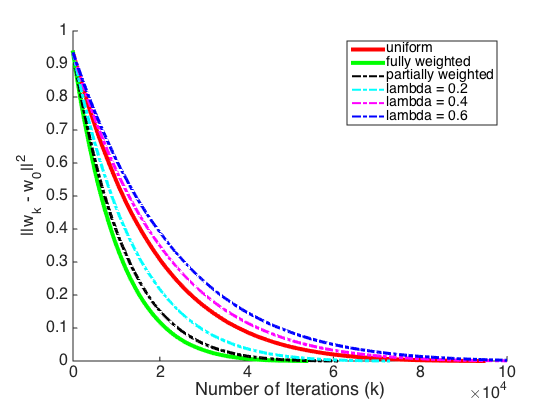
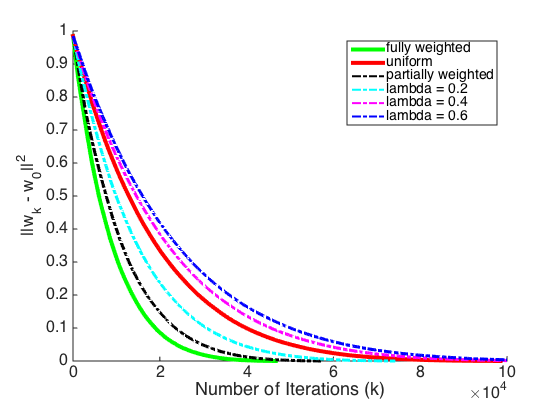
add more results for ppt

Changed region(s): [[0.1214, 0.0619, 0.9107, 0.8667], [0.6071, 0.0929, 0.85, 0.1857]]

diff --git a/comp_sgd_variants.m b/comp_sgd_variants.m
@@ -87,7 +87,7 @@ set(gca, 'fontsize', 16);
 figure; hold on;
 plot_convergence(w_fully_weighted, w_star, 'g', true);
 plot_convergence(w_uniform, w_star, 'r', true);
-legendconv = {'uniform','fully weighted','partially weighted'};
+legendconv = {'fully weighted','uniform','partially weighted'};
 for i = 1:numel(lambdas)
     curr_w_partially_weighted = w_partially_weighted{i};
     plot_convergence(curr_w_partially_weighted, w_star, ['-.', colors(i)]);
